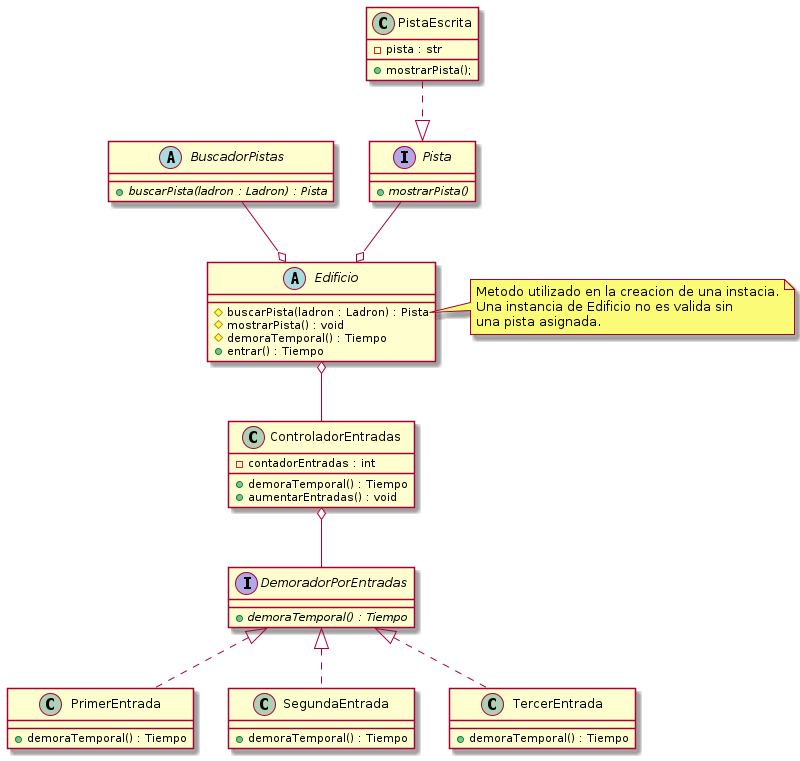
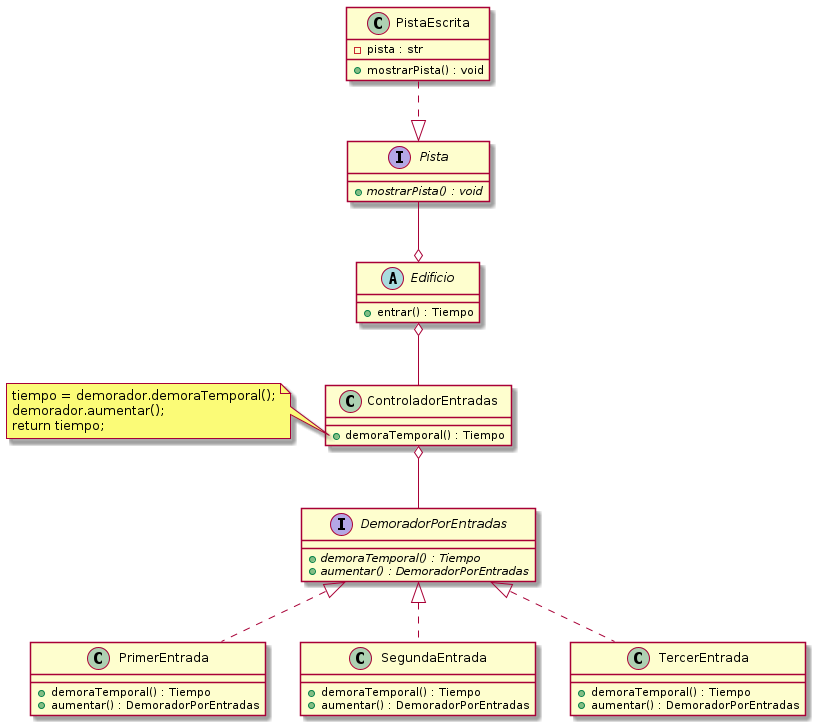
Implementacion Edificio

diff --git a/src/main/test/edu/fiuba/algo3/modelo/EdificioTest.java b/src/main/test/edu/fiuba/algo3/modelo/EdificioTest.java
@@ -1,0 +1,52 @@
+package edu.fiuba.algo3.modelo;
+
+import org.junit.jupiter.api.Test;
+import static org.junit.jupiter.api.Assertions.assertEquals;
+
+public class EdificioTest {
+
+    @Test
+    public void entrarPorPrimeraVezDemoraUnaHora(){
+        Edificio edificio = new Edificio( new PistaEscrita("El ladron se fue a china") );
+
+        int tiempo = edificio.entrar();
+
+        assertEquals(1, tiempo);
+    }
+
+    @Test
+    public void entrarPorSegundaVezDemoraDosHoras(){
+        Edificio edificio = new Edificio( new PistaEscrita("El ladron se fue a china") );
+
+        int tiempo = edificio.entrar();
+        tiempo = edificio.entrar();
+
+        assertEquals(2, tiempo);
+    }
+
+
+    @Test
+    public void entrarPorTerceraVezDemoraTresHoras(){
+        Edificio edificio = new Edificio( new PistaEscrita("El ladron se fue a china") );
+
+        int tiempo = edificio.entrar();
+        tiempo = edificio.entrar();
+        tiempo = edificio.entrar();
+
+        assertEquals(3, tiempo);
+    }
+
+    @Test
+    public void entrarPorMasDeTresVecesDemoraTresHoras(){
+        Edificio edificio = new Edificio( new PistaEscrita("El ladron se fue a china") );
+
+        int tiempo = edificio.entrar();
+        tiempo = edificio.entrar();
+        tiempo = edificio.entrar();
+        tiempo = edificio.entrar();
+        tiempo = edificio.entrar();
+
+        assertEquals(3, tiempo);
+    }
+
+}

diff --git a/src/main/java/edu/fiuba/algo3/modelo/Edificio.java b/src/main/java/edu/fiuba/algo3/modelo/Edificio.java
@@ -1,0 +1,17 @@
+package edu.fiuba.algo3.modelo;
+
+public class Edificio {
+
+    private final Pista pista;
+    private final ControladorEntradas controlador;
+
+    public Edificio( Pista entrada){
+        this.pista = entrada;
+        this.controlador = new ControladorEntradas();
+    }
+
+    public int entrar() {
+        this.pista.mostrarPista();
+        return this.controlador.demoraTemporal();
+    }
+}

diff --git a/src/main/java/edu/fiuba/algo3/modelo/ControladorEntradas.java b/src/main/java/edu/fiuba/algo3/modelo/ControladorEntradas.java
@@ -1,0 +1,19 @@
+package edu.fiuba.algo3.modelo;
+
+public class ControladorEntradas {
+
+    private DemoradorPorEntradas demorador;
+
+    public ControladorEntradas(){
+        this.demorador = new PrimerEntrada();
+    }
+
+    public int demoraTemporal(){
+
+        int tiempo = demorador.demoraTemporal();
+        this.demorador = demorador.aumentar();
+
+        return tiempo;
+    }
+
+}

diff --git a/src/main/java/edu/fiuba/algo3/modelo/PistaEscrita.java b/src/main/java/edu/fiuba/algo3/modelo/PistaEscrita.java
@@ -1,0 +1,14 @@
+package edu.fiuba.algo3.modelo;
+
+public class PistaEscrita implements Pista {
+
+    private final String pista;
+
+    public PistaEscrita(String entrada){
+        this.pista = entrada;
+    }
+
+    public void mostrarPista(){
+        System.out.println(this.pista);
+    }
+}

diff --git a/src/main/java/edu/fiuba/algo3/modelo/PrimerEntrada.java b/src/main/java/edu/fiuba/algo3/modelo/PrimerEntrada.java
@@ -1,0 +1,12 @@
+package edu.fiuba.algo3.modelo;
+
+public class PrimerEntrada implements DemoradorPorEntradas {
+
+    public int demoraTemporal(){
+        return 1;
+    }
+
+    public DemoradorPorEntradas aumentar(){
+        return new SegundaEntrada();
+    }
+}

diff --git a/src/main/java/edu/fiuba/algo3/modelo/SegundaEntrada.java b/src/main/java/edu/fiuba/algo3/modelo/SegundaEntrada.java
@@ -1,0 +1,12 @@
+package edu.fiuba.algo3.modelo;
+
+public class SegundaEntrada implements DemoradorPorEntradas {
+
+    public int demoraTemporal(){
+        return 2;
+    }
+
+    public DemoradorPorEntradas aumentar(){
+        return new TercerEntrada();
+    }
+}

diff --git a/src/main/java/edu/fiuba/algo3/modelo/TercerEntrada.java b/src/main/java/edu/fiuba/algo3/modelo/TercerEntrada.java
@@ -1,0 +1,11 @@
+package edu.fiuba.algo3.modelo;
+
+public class TercerEntrada implements DemoradorPorEntradas {
+    public int demoraTemporal(){
+        return 3;
+    }
+
+    public DemoradorPorEntradas aumentar(){
+        return this;
+    }
+}

diff --git a/src/main/java/edu/fiuba/algo3/modelo/DemoradorPorEntradas.java b/src/main/java/edu/fiuba/algo3/modelo/DemoradorPorEntradas.java
@@ -1,0 +1,8 @@
+package edu.fiuba.algo3.modelo;
+
+public interface DemoradorPorEntradas {
+
+    int demoraTemporal();
+
+    DemoradorPorEntradas aumentar();
+}

diff --git a/src/main/java/edu/fiuba/algo3/modelo/BuscadorPistas.java b/src/main/java/edu/fiuba/algo3/modelo/BuscadorPistas.java
@@ -1,0 +1,6 @@
+package edu.fiuba.algo3.modelo;
+
+public abstract class BuscadorPistas {
+
+    public abstract Pista buscarPista( Ladron ladron);
+}

diff --git a/src/main/java/edu/fiuba/algo3/modelo/Pista.java b/src/main/java/edu/fiuba/algo3/modelo/Pista.java
@@ -1,0 +1,6 @@
+package edu.fiuba.algo3.modelo;
+
+public interface Pista {
+
+    void mostrarPista();
+}

diff --git a/src/main/java/edu/fiuba/algo3/modelo/Ladron.java b/src/main/java/edu/fiuba/algo3/modelo/Ladron.java
@@ -1,0 +1,4 @@
+package edu.fiuba.algo3.modelo;
+
+public class Ladron {
+}
